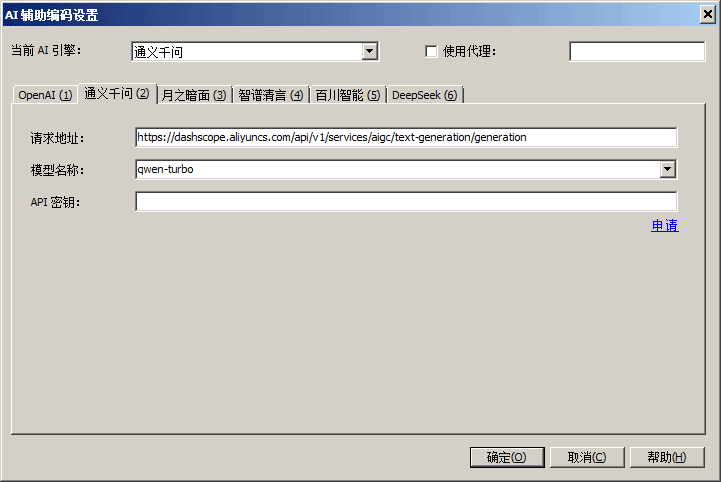
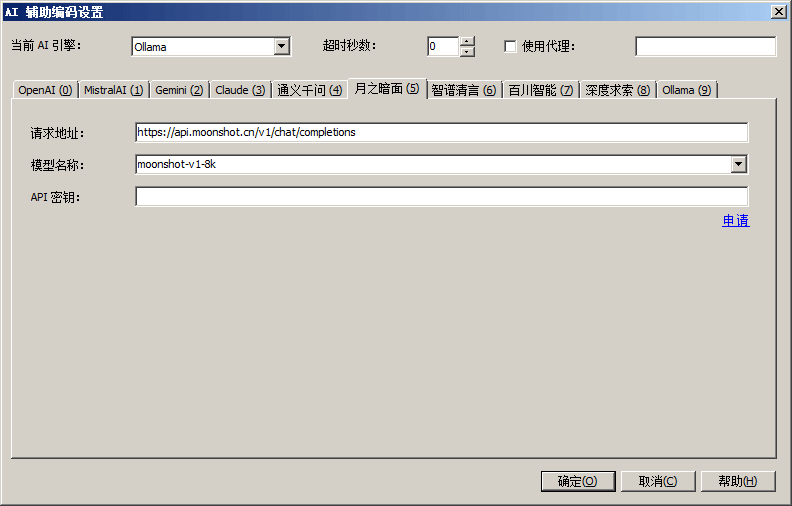
* [Help] Update Help for AI Coder Timeout Seconds.

Changed region(s): [[0.0, 0.0, 1.0, 0.9959], [0.0305, 0.249, 0.1221, 0.4357]]

diff --git a/Help/CnWizards_ENU/wizards/aicoderwizard.htm b/Help/CnWizards_ENU/wizards/aicoderwizard.htm
@@ -31,6 +31,9 @@ Before using it, please first run the configuration of this wizard, enter the ap
     <p class="text"><b>Active AI Engine</b>: Select the AI engine to be used currently, which must be configured with a valid API Key.</p>
   </li>
   <li>
+    <p class="text"><b>Timeout Seconds</b>: Timeout for network communication with the unit seconds.</p>
+  </li>
+  <li>
     <p class="text"><b>Use Proxy</b>: If checked, it represents that a proxy server is required for the specified connection to the AI Engine. Currently username and password are not supported.</p>
   </li>
   <li>
